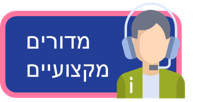
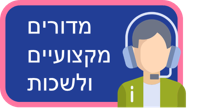
commit

diff --git a/flowchart.html b/flowchart.html
@@ -57,7 +57,7 @@
                         הקצאת פניה מעבירה את הפניה בין מרכז השירות למדור המקצועי
                     </li>
                     <li>
-                        לאחר סגירת הפניה יקבל המלש"ב תשובה בסמס ובאתר מתגייסים
+                        לאחר סגירת הפניה יקבל המלש"ב תשובה במייל או בפייסבוק, במידה ופנה באחד מערוצים אלו, או בסמס ובאתר מתגייסים
                     </li>
                 </ul>
             </div>
@@ -72,10 +72,11 @@
             <div id="plate4" class="plate channel-plate"></div>
             <div id="plate5" class="plate channel-plate"></div>
             <div id="plate6" class="plate channel-plate"></div>
-            <!-- <div id="plate7" class="plate channel-plate"></div>
-            <div id="plate8" class="plate channel-plate"></div> -->
-            <div id="plate7" class="plate connection-plate"></div>
-            <div id="plate8" class="plate connection-plate"></div>
+            <div id="plate7" class="plate channel-plate"></div>
+            <div id="plate8" class="plate channel-plate"></div>
+            <div id="plate9" class="plate connection-plate"></div>
+            <div id="plate10" class="plate connection-plate"></div>
+            <div id="plate11" class="plate connection-plate"></div>
 
             <svg class="lines" version="1.1" preserveAspectRatio="xMinYMin meet">
                 <line class="blue" x1="50%" y1="20%" x2="60%" y2="28%" />
@@ -87,13 +88,19 @@
                 <line class="green" x1="40%" y1="38%" x2="27%" y2="48%" />
                 <line class="green" x1="20%" y1="38%" x2="26%" y2="48%" />
                 <line class="green" x1="80%" y1="38%" x2="33%" y2="48%" />
-
                 <line class="pink" x1="80%" y1="38%" x2="68%" y2="50%" />
-                <line class="pink" x1="75%" y1="53%" x2="52%" y2="68%" />
-                <line class="green" x1="25%" y1="53%" x2="48%" y2="68%" />
-                <line class="blue" x1="50%" y1="70%" x2="38%" y2="82%" />
+
+                <line class="pink" x1="73%" y1="53%" x2="73%" y2="64%" />
+                <line class="green" x1="27%" y1="53%" x2="27%" y2="64%" />
                 <line class="blue" x1="30%" y1="52%" x2="68%" y2="52%" />
-                <line class="blue" x1="50%" y1="70%" x2="62%" y2="82%" />
+
+                <line class="green" x1="27%" y1="70%" x2="20%" y2="82%" />
+                <line class="green" x1="27%" y1="70%" x2="40%" y2="82%" />
+                <line class="green" x1="27%" y1="70%" x2="60%" y2="82%" />
+                <line class="green" x1="27%" y1="70%" x2="80%" y2="82%" />
+                <line class="pink" x1="73%" y1="70%" x2="60%" y2="82%" />
+                <line class="pink" x1="73%" y1="70%" x2="80%" y2="82%" />
+
             </svg>
             <div id="check-btn" class="check-btn">בדוק</div>
         </div>

diff --git a/indexCode.js b/indexCode.js
@@ -18,11 +18,10 @@ var matContent = [
     [
         [
             {
-                "section": "<p>מערכת הCRM הינה <strong>מערכת לניהול קשרי לקוחות</strong>.</p><p><strong>CRM- Customer Relationship Management</strong></p><p>המערכת מאפשרת ליחידת מיטב <strong>לנהל פניות של מלש\"בים </strong>במגוון נושאים, <strong>לתעד</strong> אותן ו<strong>לעקוב</strong> אחר הטיפול בהן. &nbsp;</p><hr /><p>רוב הפניות מתקבלות ב<strong>מרכז המידע והשירות </strong>שמורכב ממרכז השירות הטלפוני ומרכז השירות הדיגיטלי. הפניות מטופלות ונסגרות במרכז השירות או מועברות משם להמשך הטיפול במדורים המקצועיים ביחידה.</p><p>בנוסף, ישנן פניות אשר מגיעות דרך אתר \"מתגייסים ברשת\" חלקן מגיעות למרכז השירות וחלקן מופנות ישירות למדור המקצועי.</p ><img class='full-img' src='media/indexMedia/flowchart.png'/>",
+                "section": "<p>מערכת הCRM הינה <strong>מערכת לניהול קשרי לקוחות</strong>.</p><p><strong>CRM- Customer Relationship Management</strong></p><p>המערכת מאפשרת ליחידת מיטב <strong>לנהל פניות של מלש\"בים </strong>במגוון נושאים, <strong>לתעד</strong> אותן ו<strong>לעקוב</strong> אחר הטיפול בהן. &nbsp;</p><hr /><p>רוב הפניות מתקבלות ב<strong>מרכז המידע והשירות </strong>שמורכב ממרכז השירות הטלפוני ומרכז השירות הדיגיטלי. הפניות מטופלות ונסגרות במרכז השירות או מועברות משם להמשך הטיפול במדורים המקצועיים ביחידה ובלשכות השונות.</p><p>בנוסף, ישנן פניות אשר מגיעות דרך אתר \"מתגייסים ברשת\" חלקן מגיעות למרכז השירות וחלקן מופנות ישירות למדור המקצועי.</p ><img class='full-img' src='media/indexMedia/flowchart.png'/>",
                 "instruction": ""
             }
         ]
-
     ],
     [
         [
@@ -415,7 +414,7 @@ var matContent = [
                 "width": "10%",
                 "height": "2.2%",
                 "right": "50.8%",
-                "top": "45.8%",
+                "top": "48%",
                 "isChangeScreen": "false",
                 "isBreak": "false"
             },

diff --git a/sortGameCode.js b/sortGameCode.js
@@ -13,7 +13,7 @@ var arrStrResponses = [
     '<p>מלש"ב/ית יקר/ה, בהמשך לפניתך נפתחה לך הפניה למדור בריאות הנפש בלשכת גיוס תל השומר. זימון ישלח אליך לאחר שתשלימ/י את כלל הליכי הצו הראשון.</p><p>בהצלחה!</p>',
     '<p>מלש"ב/ית יקרה, שאלונך הרפואי נקלט ונבדק.</p><p>מצורפת רשימת המסמכים שעליך לצרף.</p><p>חלק ג של השאלון הרפואי (ממולא ע"י אופטימטריסט. במידה והמספר במשקפיים עולה על 4 יש לצרף חוות דעת רופא עיניים ובדיקת קרקעיות), בדיקת שתן תקינה ועדכנית (עד שלושה חודשים טרם הצו), וחוו"ד רופא עור משנה אחרונה.</p><p>את השאלון הרפואי ניתן למצוא באתר מתגייסים תחת "טפסים" "צו ראשון" "שאלון רפואי".</p><p>המשך הליך גיוס נעים!</p>',
     'מלש"ב/ית יקר/ה, בקשתך להקדמת גיוס לא אושרה לאור צורכי צבא, צו הגיוס שבידך הינו בתוקף. בהצלחה!',
-    'מלש"ב/ית יקר/ה, לאחרונה התקבלה פנייתך בנוגע לבקשת מיון כלל חמן בחיל המודיעין, הרינו להודיע לך שבנקודה זו תמו המיונים למחזור גיוסך ולכן לא נוכל להיענות לבקשתך. אנו בטוחים כי תוכל לממש את כישוריך בכלל המסלולים אותם מציע צה"ל.',
+    'מלש"ב/ית יקר/ה, לאחרונה התקבלה פנייתך בנוגע לבקשת מיון כלל חמן בחיל המודיעין, הרינו להודיע לך שבנקודה זו תמו המיונים למחזור גיוסך ולכן לא נוכל להיענות לבקשתך. אנו בטוחים כי תוכל לממש את כישוריך בכלל המסלולים אותם מציע צה"ל. בהצלחה!',
     '<p>מלש"ב/ית יקר/ה, בהמשך לפנייתך בנושא פניה שאינה בסמכות מיטב, עליך לפנות ל(שם סמכות).</p><p>המשך הליך גיוס נעים!</p>',
     'מלש"ב יקר ענו על המסמכים ששלחת "הודפס עדיין חסר תפקודי כליות ואנמניזה"',
     'פנייה כפולה',

diff --git a/flowchartStyle.css b/flowchartStyle.css
@@ -311,30 +311,35 @@ body {
 
 #plate5 {
     top: 80%;
-    left: calc(40% - 51px);
+    left: calc(20% - 51px);
 }
 
 #plate6 {
     top: 80%;
-    left: calc(60% - 51px);
+    left: calc(40% - 51px);
 }
 
 #plate7 {
+    top: 80%;
+    left: calc(60% - 51px);
+}
+
+#plate8 {
+    top: 80%;
+    left: calc(80% - 51px);
+}
+
+#plate9 {
     top: 47%;
     left: calc(50% - 51px);
 }
 
-#plate8 {
-    top: 65%;
-    left: calc(50% - 51px);
-}
-
-/* #plate9 {
-    top: 63%;
-    left: 25%;
-}
-
 #plate10 {
-    top: 52%;
-    left: 50%;
-} */
+    top: 62%;
+    left: calc(35% - 135px);
+}
+
+#plate11 {
+    top: 62%;
+    left: 70%;
+}

diff --git a/flowchartCode.js b/flowchartCode.js
@@ -117,8 +117,10 @@ function isFilled() {
 var MAT_ANSWER = [
     ["website"],
     ["facebook", "phone", "email"],
+    ["facebook", "email"],
     ["smartphone", "website"],
     ["transfer"],
+    ["close"],
     ["close"]
 ];
 
